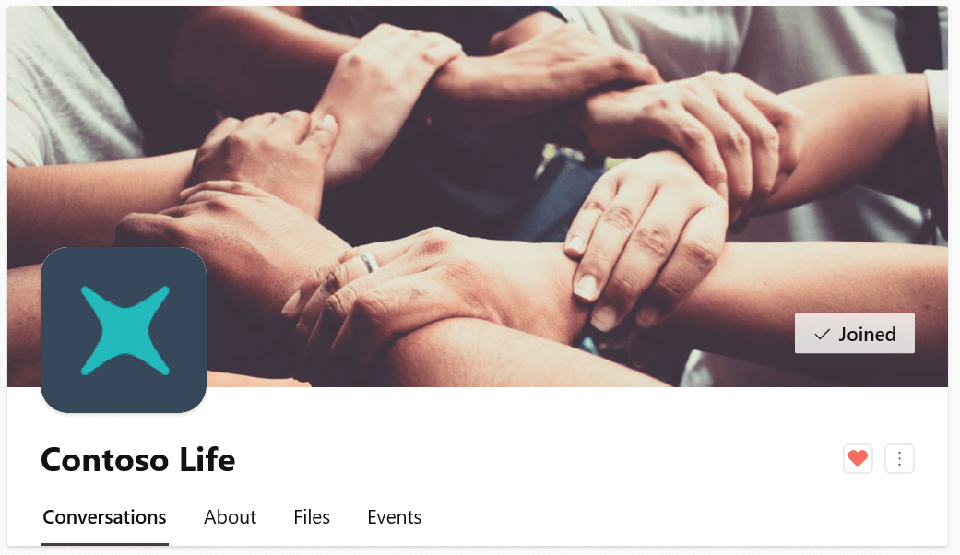
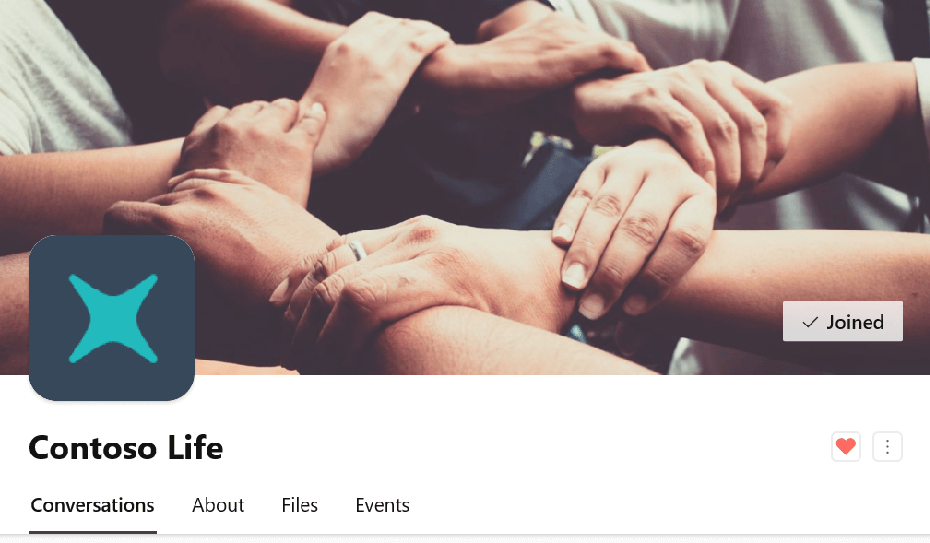
Replaced images
Revised images to make them smaller

diff --git a/yammer/manage-yammer-groups/favorite-communities.md b/yammer/manage-yammer-groups/favorite-communities.md
@@ -28,7 +28,7 @@ On the Yammer web and in the mobile app, in the bottom right corner of the commu
 
 To remove a Favorite community from the list, select the heart and it will appear unfilled. Now this community is no longer a favorite and will not be at the top of your communities list.
 
-![yammer](../media/yammer-group_header_for-web.png)
+![yammer](../media/yammer-group_header_favorites.png)
 
 ## See also
 [Customize your Yammer community](customize-your-yammer-community.md)
